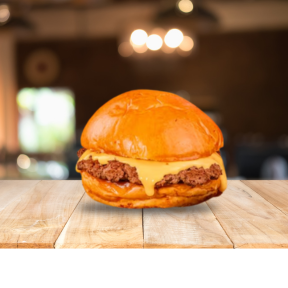
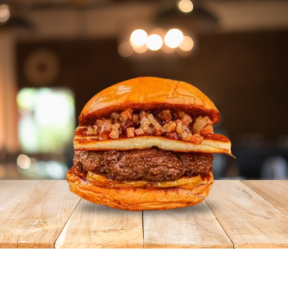
att
atualizei os valores

Changed region(s): [[0.2188, 0.25, 0.8125, 0.75]]

diff --git a/app/page.tsx b/app/page.tsx
@@ -42,36 +42,41 @@ interface DeliveryAddress {
 const featuredItems: MenuItem[] = [
   {
     id: "1",
-    name: "Broka Smash Bacon",
-    description: "Hambúrguer artesanal, queijo cheddar, alface, tomate, cebola roxa e molho especial",
-    price: 28.9,
-    image: "/broka-smash-bacon.png",
+    name: "Brokão",
+    description: "O Brokador de fome! pão selado na manteiga, dois blends burguers bovino de 150g, queijo derretendo, bacon crocante em fatias e cebola caramelizada",
+    price: 38.50,
+    image: "/brokao.png",
     extras: [
-      { id: "bacon", name: "Bacon Crocante", price: 5.0 },
-      { id: "cheese", name: "Queijo Extra", price: 3.0 },
-      { id: "egg", name: "Ovo Frito", price: 4.0 },
+      { id: "smash bovino", name: "smash bovino 70g", price: 1.90 },
+      { id: "bacon", name: "Bacon Crocante 40g", price: 0.60 },
+      { id: "cheese", name: "Queijo Extra", price: 0.40 },
+      { id: "egg", name: "Ovo Frito", price: 1.0 },
     ],
   },
   {
     id: "2",
-    name: "Broka BBQ",
-    description: "Hambúrguer defumado, queijo provolone, cebola caramelizada e molho barbecue",
-    price: 32.9,
-    image: "/broka-bbq.png",
+    name: "Broka Selado",
+    description: "Especial com 30g de queijo assado na chapa, pão selado na manteiga, bacon em cubos, tomate e um blend bovino de 150g",
+    price: 25.99,
+    image: "/broka-selado.png",
     extras: [
-      { id: "bacon", name: "Bacon Crocante", price: 5.0 },
-      { id: "onion-rings", name: "Anéis de Cebola", price: 6.0 },
+      { id: "smash bovino", name: "smash bovino 70g", price: 1.90 },
+      { id: "bacon", name: "Bacon Crocante 40g", price: 0.60 },
+      { id: "cheese", name: "Queijo Extra", price: 0.40 },
+      { id: "egg", name: "Ovo Frito", price: 1.0 },
     ],
   },
   {
     id: "3",
-    name: "Broka Veggie",
-    description: "Hambúrguer de grão-de-bico, queijo vegano, rúcula, tomate seco e pesto",
-    price: 26.9,
-    image: "/broka-veggie.png",
+    name: "Broka Salada",
+    description: "Pão selado na manteiga, blend burguer bovino 150g, queijo derretendo, alface, pepino, tomate e cebola caramelizada",
+    price: 29.99,
+    image: "/broka-salada.png",
     extras: [
-      { id: "avocado", name: "Abacate", price: 4.0 },
-      { id: "sprouts", name: "Brotos", price: 2.0 },
+      { id: "blend", name: "blend burguer bovino 150g", price: 4.10 },
+      { id: "bacon", name: "Bacon Crocante 40g", price: 0.60 },
+      { id: "cheese", name: "Queijo Extra", price: 0.40 },
+      { id: "egg", name: "Ovo Frito", price: 1.0 },
     ],
   },
 ]
@@ -80,35 +85,67 @@ const allBurgers: MenuItem[] = [
   ...featuredItems,
   {
     id: "4",
-    name: "Broka Spicy",
-    description: "Pão brioche selado na manteiga, Molho especial, um smash burger de carne bovina 80g, alho frito, cebola crispy.",
-    price: 30.9,
-    image: "/broka-smash-lupi.png",
+    name: "Smash Pips",
+    description: "Pão selado na manteiga, um smash burguer de 70g, bacon em cubos, pepino, cebola caramelizada e queijo",
+    price: 17.99,
+    image: "/smash-pips.png",
     extras: [
-      { id: "extra-spicy", name: "Extra Pimenta", price: 2.0 },
-      { id: "bacon", name: "Bacon Crocante", price: 5.0 },
+     { id: "smash", name: "smash bovino 70g", price: 1.90 },
+      { id: "bacon", name: "Bacon Crocante 40g", price: 0.60 },
+      { id: "cheese", name: "Fatia de Queijo", price: 0.40 },
+      { id: "egg", name: "Ovo Frito", price: 1.0 },
     ],
   },
   {
     id: "5",
-    name: "Broka Smash Classic",
-    description: "Dois hambúrgueres, queijo cheddar duplo, alface, tomate e molho especial",
-    price: 38.9,
-    image: "/broka-smash-classic.png",
+    name: "Smash Clássico",
+    description: "O Clássico Smash mais amado! Pão selado na manteiga, um smash bovino de 70g, coberto por queijo derretido, alface, tomate e cebola caramelizada.",
+    price: 19.50,
+    image: "/smash-classico.png",
     extras: [
-      { id: "bacon", name: "Bacon Crocante", price: 5.0 },
-      { id: "cheese", name: "Queijo Extra", price: 3.0 },
+      { id: "smash", name: "smash bovino 70g", price: 1.90 },
+      { id: "bacon", name: "Bacon Crocante 40g", price: 0.60 },
+      { id: "cheese", name: "Queijo Extra", price: 0.40 },
+      { id: "egg", name: "Ovo Frito", price: 1.0 },
     ],
   },
   {
     id: "6",
-    name: "Broka Ease",
-    description: "Filé de peixe empanado, queijo, alface, tomate e molho tártaro",
-    price: 29.9,
-    image: "/broka-ease.png",
+    name: "Smash S",
+    description: "O famoso pão, queijo e carne! Pão selado na manteiga, um smash bovino de 70g, queijo derretendo e cebola caramelizada.",
+    price: 14.99,
+    image: "/smash-s.png",
     extras: [
-      { id: "lemon", name: "Limão Extra", price: 1.0 },
-      { id: "pickles", name: "Picles", price: 2.0 },
+      { id: "smash", name: "Smash bovino 70g", price: 1.90 },
+      { id: "bacon", name: "Bacon Crocante 40g", price: 0.60 },
+      { id: "cheese", name: "Queijo Extra", price: 0.40 },
+      { id: "egg", name: "Ovo Frito", price: 1.0 },
+    ],
+  },
+  {
+    id: "7",
+    name: "Smash Bacon",
+    description: "O smash bacon de respeito! Pão selado na manteiga, um smash burguer de 70g, tiras de bacon crocante, queijo derretendo e cebola caramelizada.",
+    price: 20.50,
+    image: "/smash-bacon.png",
+    extras: [
+      { id: "smash", name: "Smash bovino 70g", price: 1.90 },
+      { id: "bacon", name: "Bacon Crocante 40g", price: 0.60 },
+      { id: "cheese", name: "Queijo Extra", price: 0.40 },
+      { id: "egg", name: "Ovo Frito", price: 1.0 },
+    ],
+  },
+  {
+    id: "8",
+    name: "Smash Egg Bacon",
+    description: "O samash raiz com ovo frito! Pão selado na manteiga, um smash burguer de 70g, coberto por queijo derretendo, bacon em fatias, ovo frito e cebola caramelizada.",
+    price: 19.99,
+    image: "/smash-egg-bacon.png",
+    extras: [
+      { id: "smash", name: "Smash bovino 70g", price: 1.90 },
+      { id: "bacon", name: "Bacon Crocante 40g", price: 0.60 },
+      { id: "cheese", name: "Queijo Extra", price: 0.40 },
+      { id: "egg", name: "Ovo Frito", price: 1.0 },
     ],
   },
 ]

diff --git a/components/checkout-modal.tsx b/components/checkout-modal.tsx
@@ -254,7 +254,7 @@ export function CheckoutModal({ isOpen, onClose, cartItems, onConfirmOrder }: Ch
           </form>
 
           <p className="text-xs text-slate-500 text-center">
-            Seu pedido será enviado automaticamente para nosso WhatsApp onde você poderá finalizar o pagamento e
+            Você será redirecionado ao nosso Whatsapp para você enviar o pedido e poderá finalizar o pagamento e
             confirmar a entrega
           </p>
         </div>
